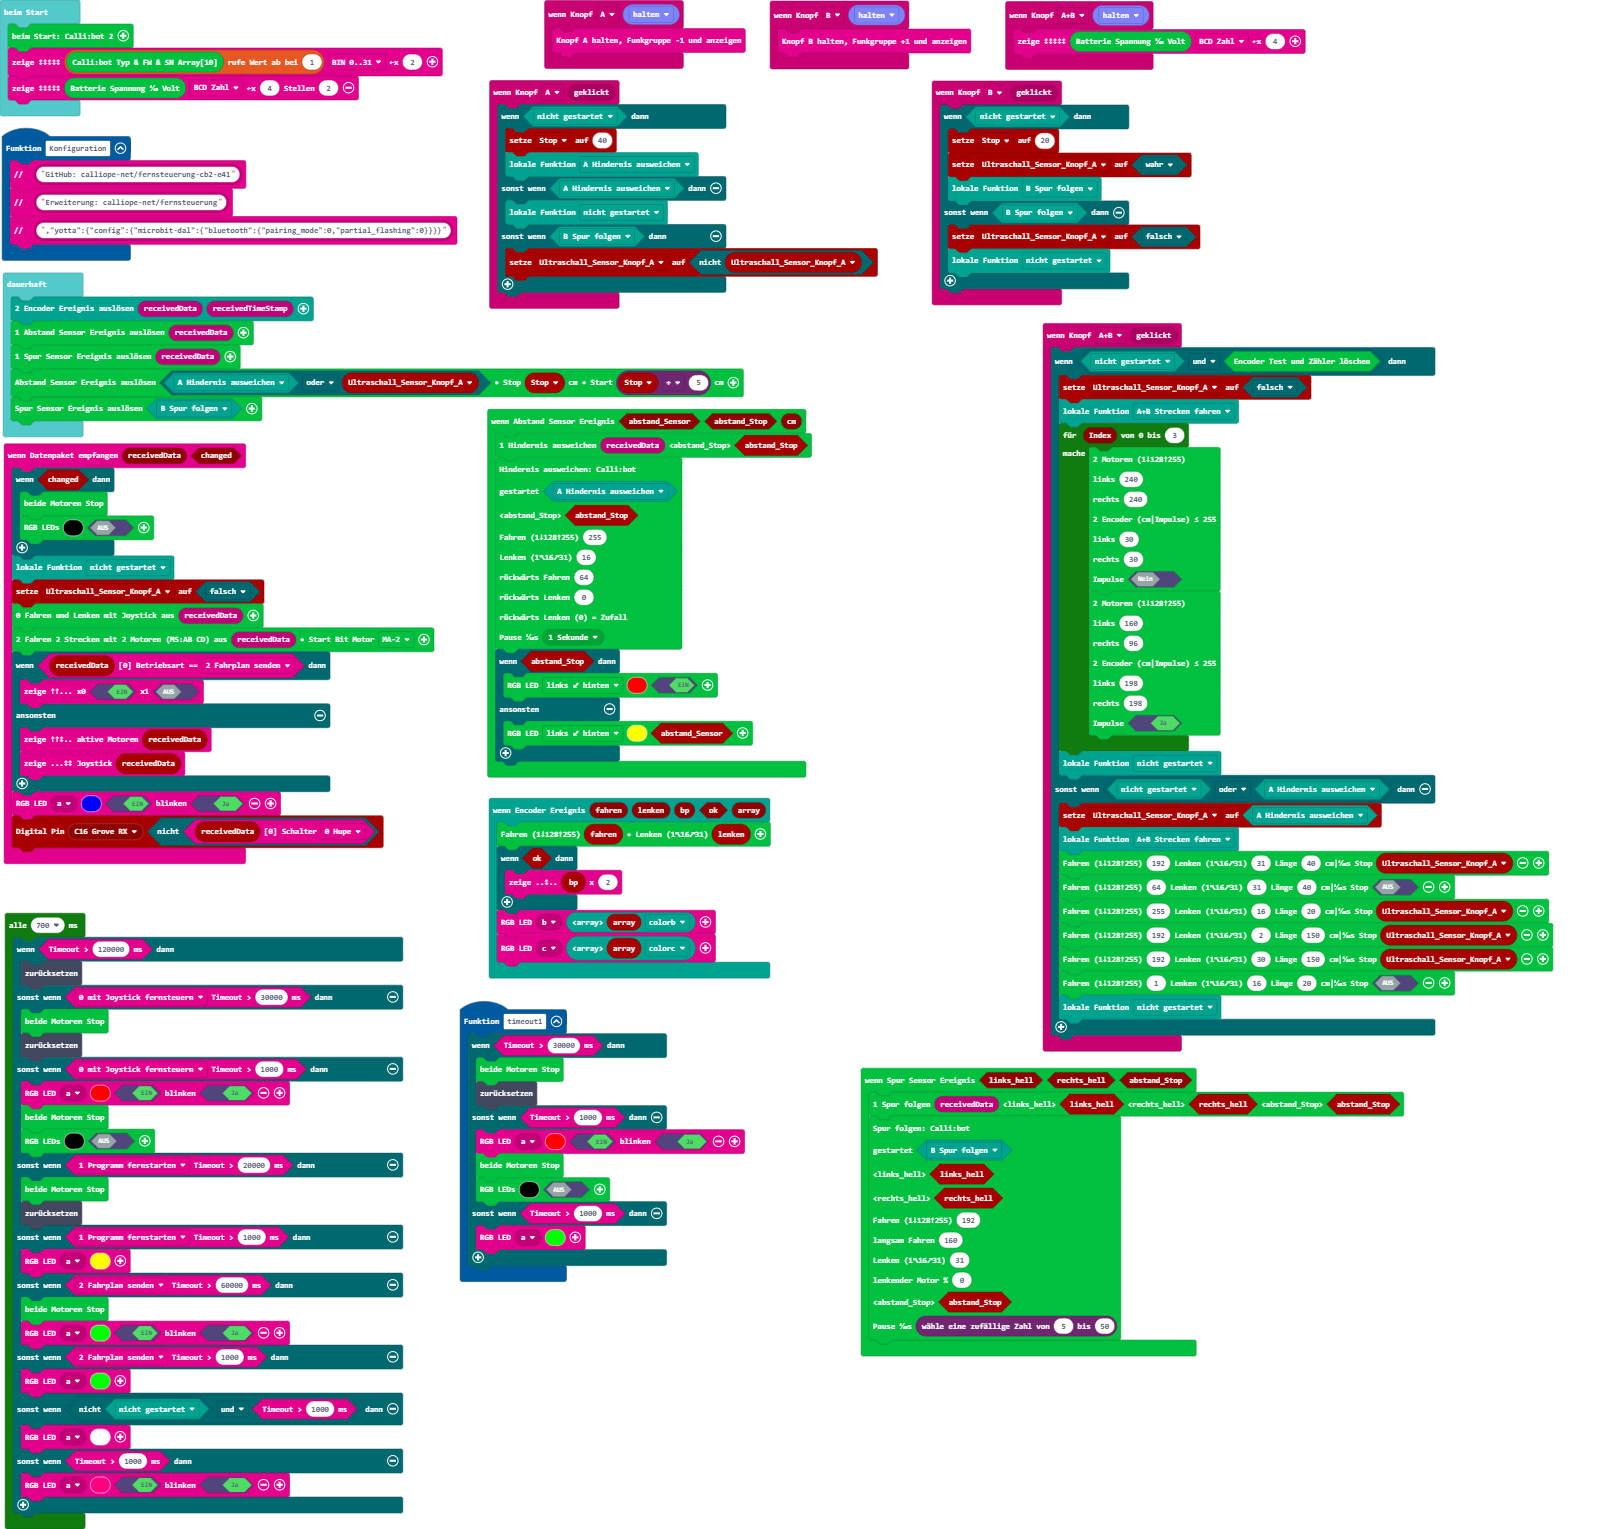
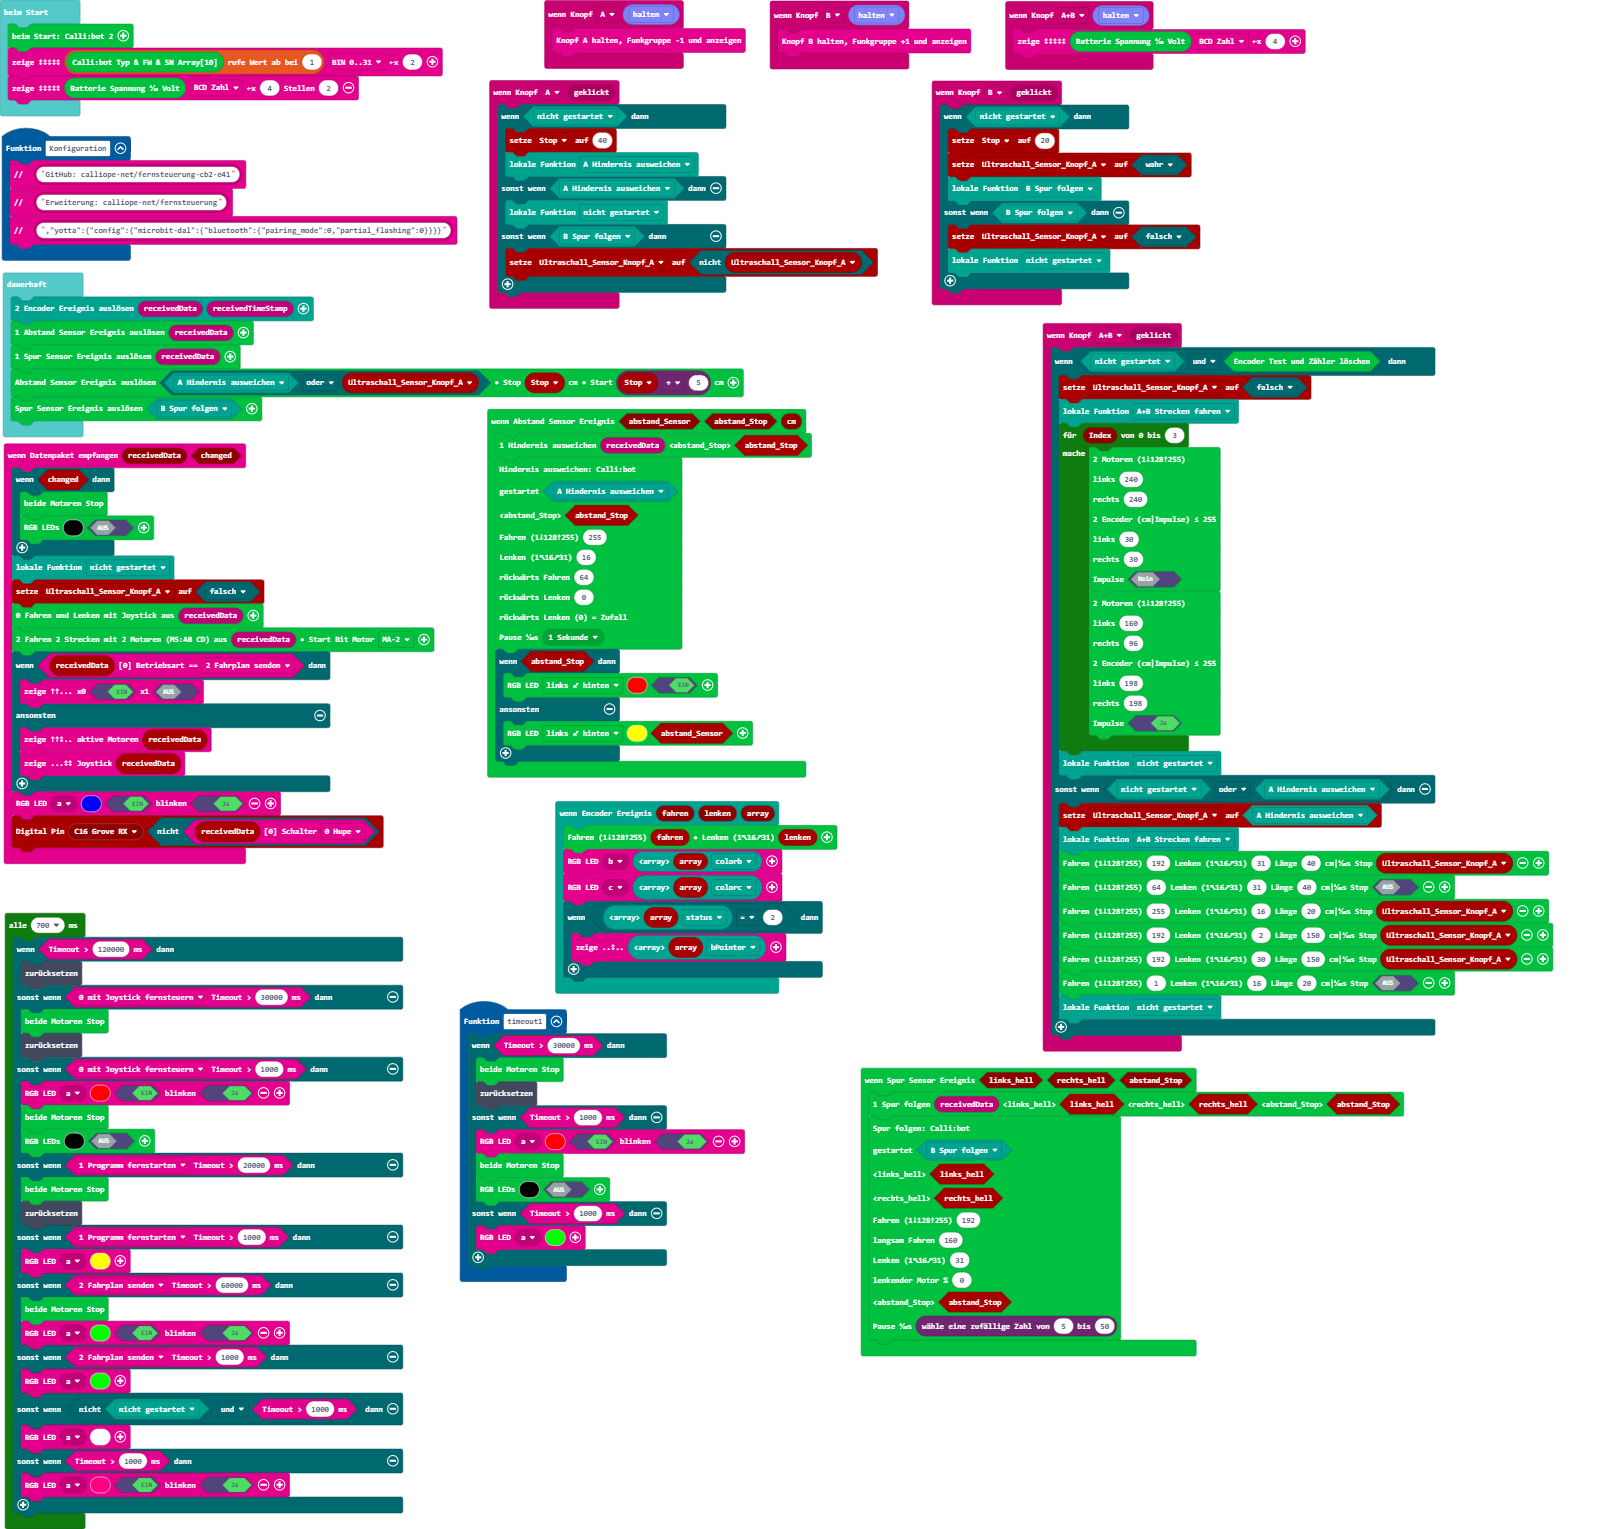
Aktualisiere pxt.json, main.blocks, main.ts

Changed region(s): [[0.2804, 0.5226, 0.5296, 0.6763]]

diff --git a/main.ts b/main.ts
@@ -11,13 +11,13 @@ input.onButtonEvent(Button.A, input.buttonEventClick(), function () {
         Ultraschall_Sensor_Knopf_A = !(Ultraschall_Sensor_Knopf_A)
     }
 })
-receiver.onEncoderEvent(function (fahren, lenken, bp, ok, array) {
+receiver.onEncoderEvent(function (fahren, lenken, array) {
     cb2.writeMotor128Servo16(fahren, lenken)
-    if (ok) {
-        btf.zeigeBIN_BufferPointer(bp, 2)
+    btf.setLedColors(btf.btf_RgbLed(btf.eRgbLed.b), receiver.encoderArray(array, receiver.eSelectEncoder.colorb))
+    btf.setLedColors(btf.btf_RgbLed(btf.eRgbLed.c), receiver.encoderArray(array, receiver.eSelectEncoder.colorc))
+    if (receiver.encoderArray(array, receiver.eSelectEncoder.status) == 2) {
+        btf.zeigeBIN_BufferPointer(receiver.encoderArray(array, receiver.eSelectEncoder.bPointer))
     }
-    btf.setLedColors(btf.btf_RgbLed(btf.eRgbLed.b), receiver.encoderArray(array, receiver.eEncoderArray.colorb))
-    btf.setLedColors(btf.btf_RgbLed(btf.eRgbLed.c), receiver.encoderArray(array, receiver.eEncoderArray.colorc))
 })
 input.onButtonEvent(Button.AB, input.buttonEventClick(), function () {
     if (receiver.isFunktion(receiver.eFunktion.ng) && cb2.writeEncoderReset()) {
